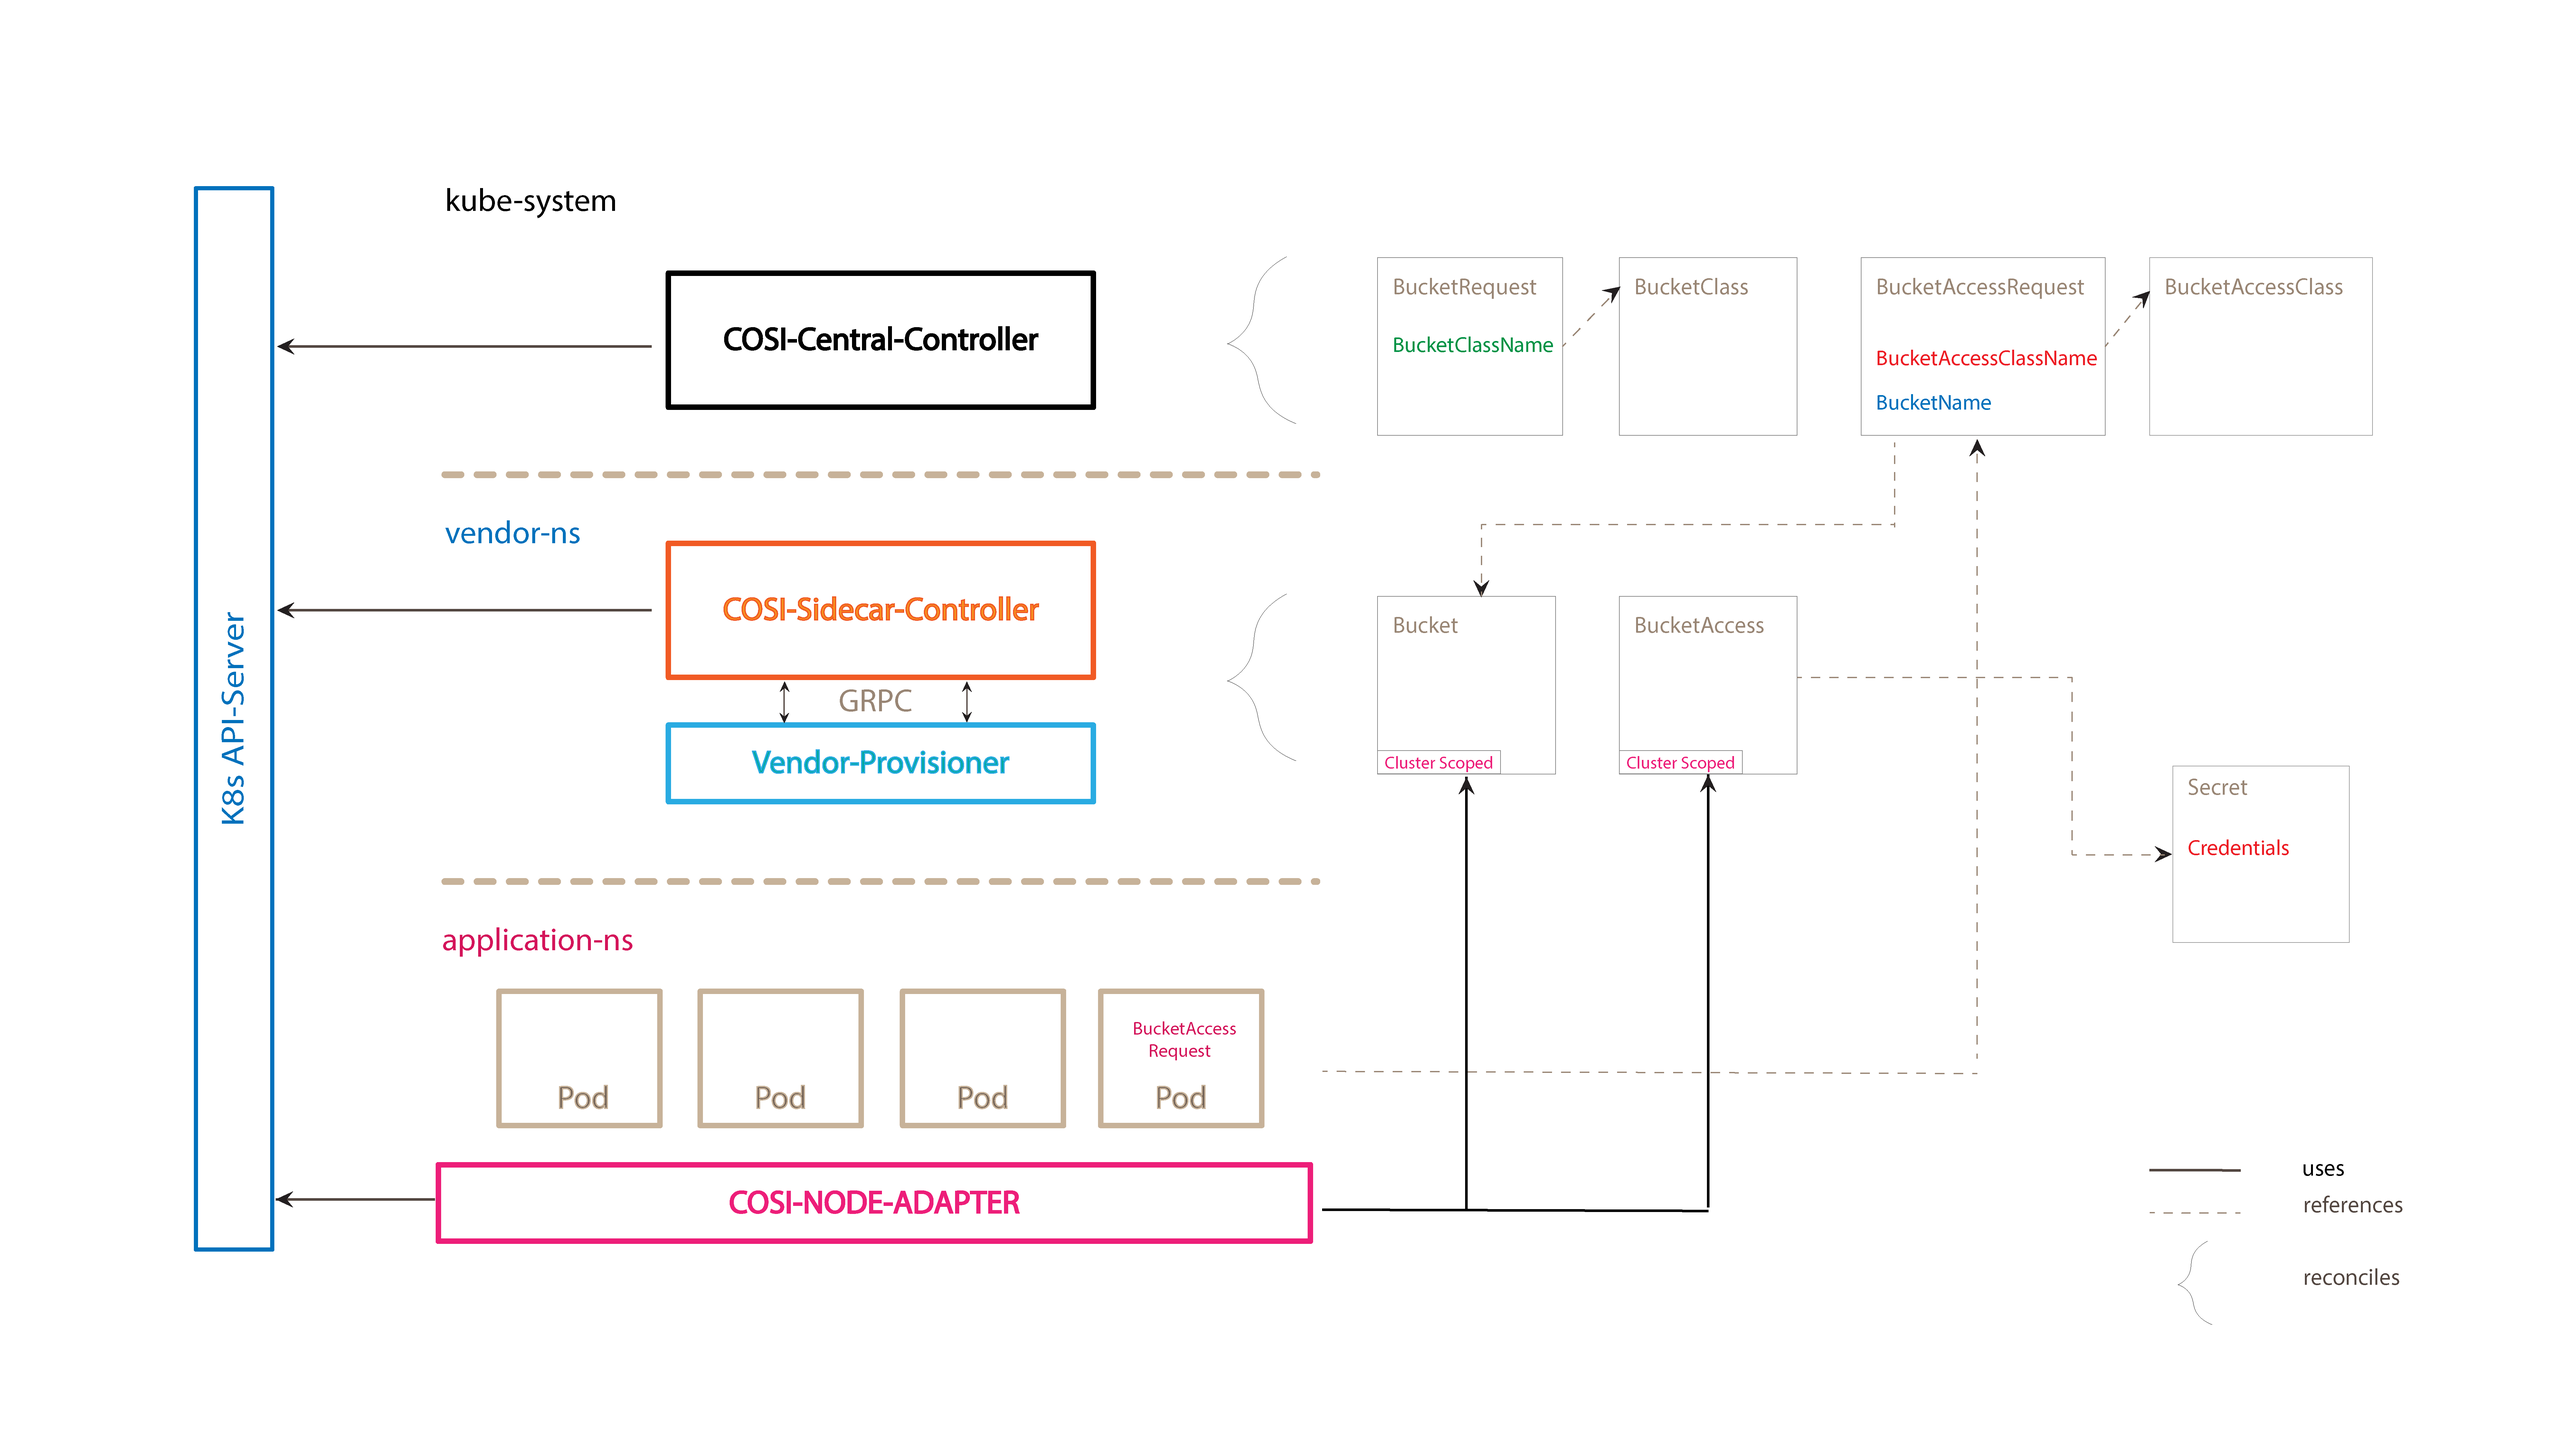
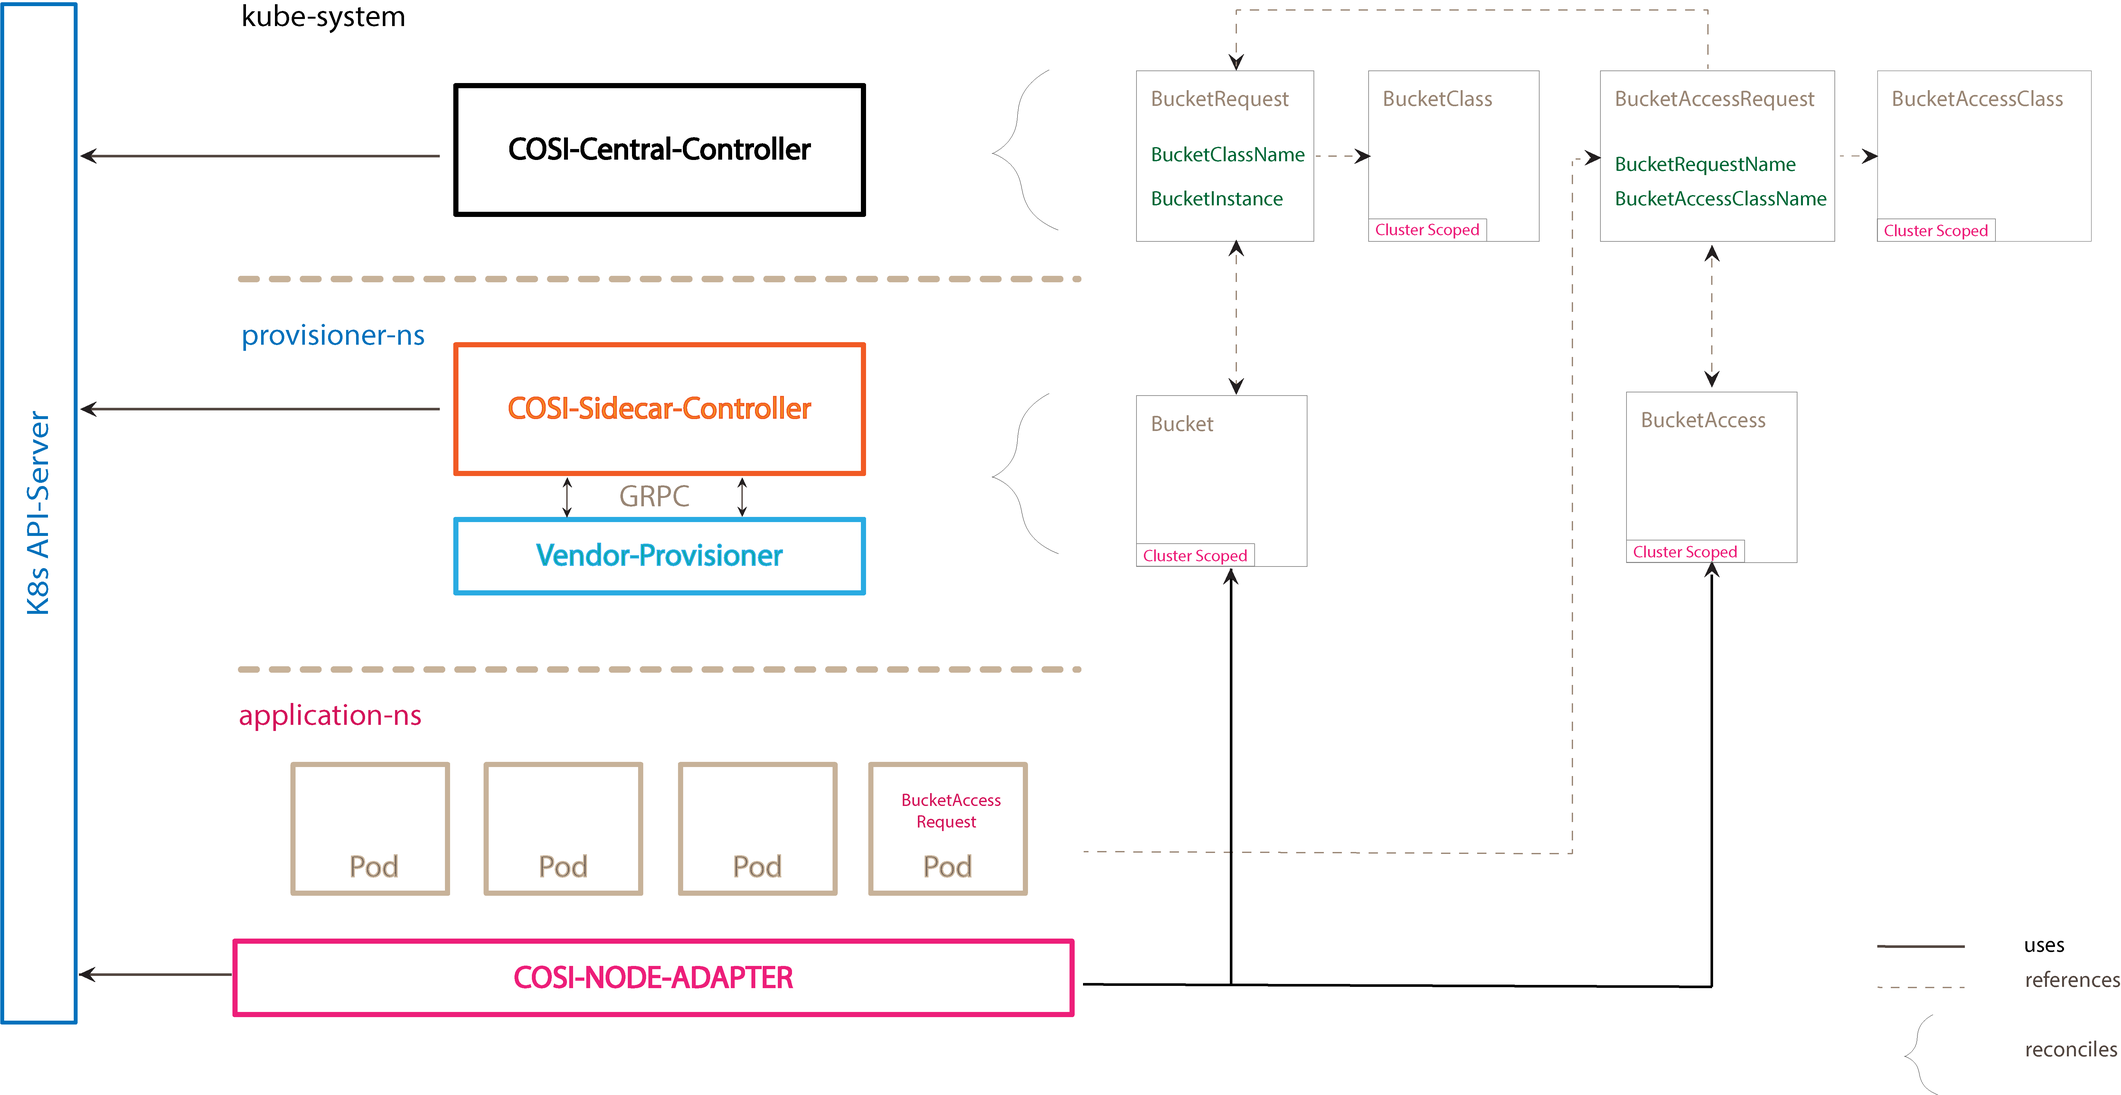
BucketAPI update the diagrams for topology, and share bucket workflow

diff --git a/keps/sig-storage/20191125-bucket-provisioning.md b/keps/sig-storage/20191125-bucket-provisioning.md
@@ -475,6 +475,8 @@ Here is the workflow:
 ## Sharing COSI Created Buckets
 This is the greenfield -> brownfield access use case, where COSI has created the `Bucket` instance and the driver has provisioned a new bucket. Now, we want to share access to this bucket in other namespaces.
 
+![ShareBucket Workflow](COSI%20Architecture_Share%20Bucket%20Workflow.png)
+
 > Note: if the bucket sharing is all within the same namespace then each `BucketAccessRequest` (also in that namespace) only needs to reference the existing BR.
 
 Here is the workflow:
